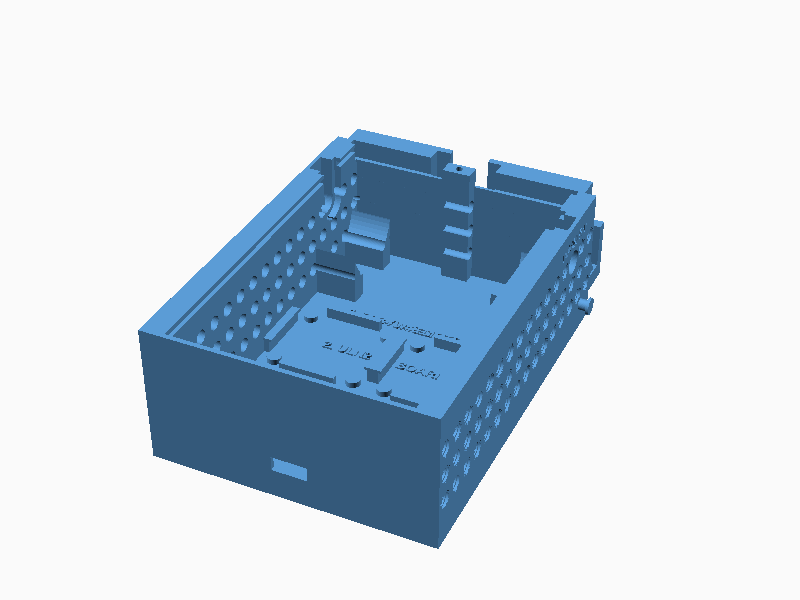
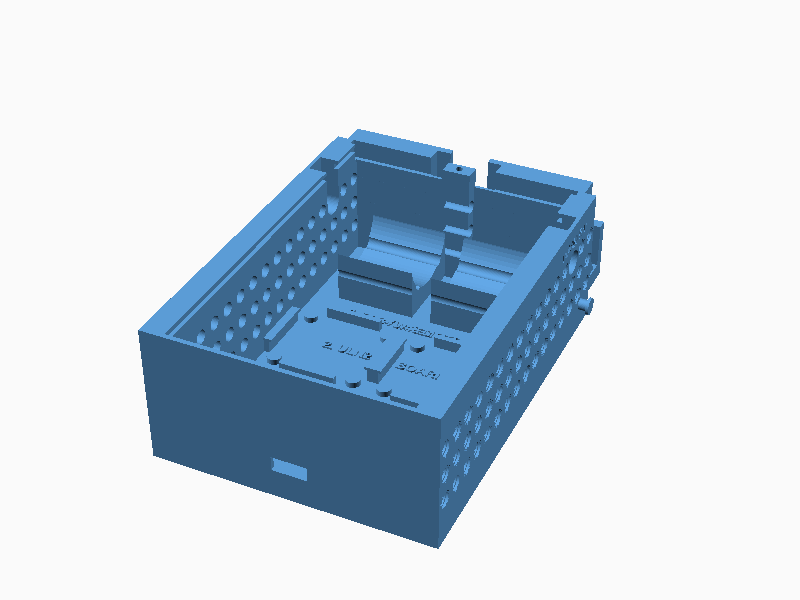
fix(cad): match motor mount + wall U-slot to the new captive coupler
The new coupler has its flat-D socket at the inboard Ø12 end, so the motor shaft
must end inside the cavity at that socket (only the coupler's Ø8 nose + the LEGO
axle use the Ø8.5 wall hole). Changes:
- Motor mount is now a friction cradle in the cavity (body centred at x=±17.5),
  no wall screws -- shaft plugs straight into the captive coupler.
- Removed the vestigial Ø12.5 central flange groove from the wall U-slot (the
  Ø12 ring is captive simply by being inboard of the Ø8.5 hole).
- Fixed the motor model's flat-D shaft (flats now actually cut; Ø5 x 6mm per the
  28BYJ-48 diagram) and repositioned motors/couplers in showcase + viewer.

Changed region(s): [[0.4062, 0.3, 0.6562, 0.57], [0.375, 0.42, 0.4062, 0.45]]

diff --git a/website/viewer.js b/website/viewer.js
@@ -142,14 +142,14 @@ loadPart('https://raw.githubusercontent.com/sloev/robo/master/vehicle_phone_clam
 // 4. Couplers. We load the same model twice (left and right).
 // Left coupler: D-socket faces +X (towards motor). The model's default orientation points D-socket to +X.
 loadPart('https://raw.githubusercontent.com/sloev/robo/master/vehicle_couplers.stl', matCoupler, 
-    [-41.2, 33.6, -44], // Assembled (captive in the left wall: flange trapped inside, axle socket out)
+    [-38.7, 33.6, -44], // Assembled (captive in the left wall: flange trapped inside, axle socket out)
     [-90, 33.6, -44],   // Exploded
     'couplerLeft'
 );
 
 // Right coupler: D-socket must face -X. So we rotate it 180 degrees around Y!
 loadPart('https://raw.githubusercontent.com/sloev/robo/master/vehicle_couplers.stl', matCoupler, 
-    [41.2, 33.6, -44],  // Assembled (captive in the right wall: flange trapped inside, axle socket out)
+    [38.7, 33.6, -44],  // Assembled (captive in the right wall: flange trapped inside, axle socket out)
     [90, 33.6, -44],    // Exploded
     'couplerRight',
     [0, Math.PI, 0]     // Assembled Rotation (will be applied to wrapper)
@@ -207,10 +207,10 @@ function makeMotor() {
     }
     return g;
 }
-for (const m of [{ x: -30, flip: true }, { x: 30, flip: false }]) {
+for (const m of [{ x: -17.5, flip: true }, { x: 17.5, flip: false }]) {
     const motor = makeMotor();
     if (m.flip) motor.rotation.y = Math.PI;   // shaft toward the opposite wall
-    const assembled = new THREE.Vector3(m.x, 25.6, -44);   // OpenSCAD (±30, 44, 25.6)
+    const assembled = new THREE.Vector3(m.x, 25.6, -44);   // OpenSCAD (±17.5, 44, 25.6)
     const exploded = assembled.clone().add(new THREE.Vector3(0, -50, 0));
     motor.position.copy(assembled);
     scene.add(motor);